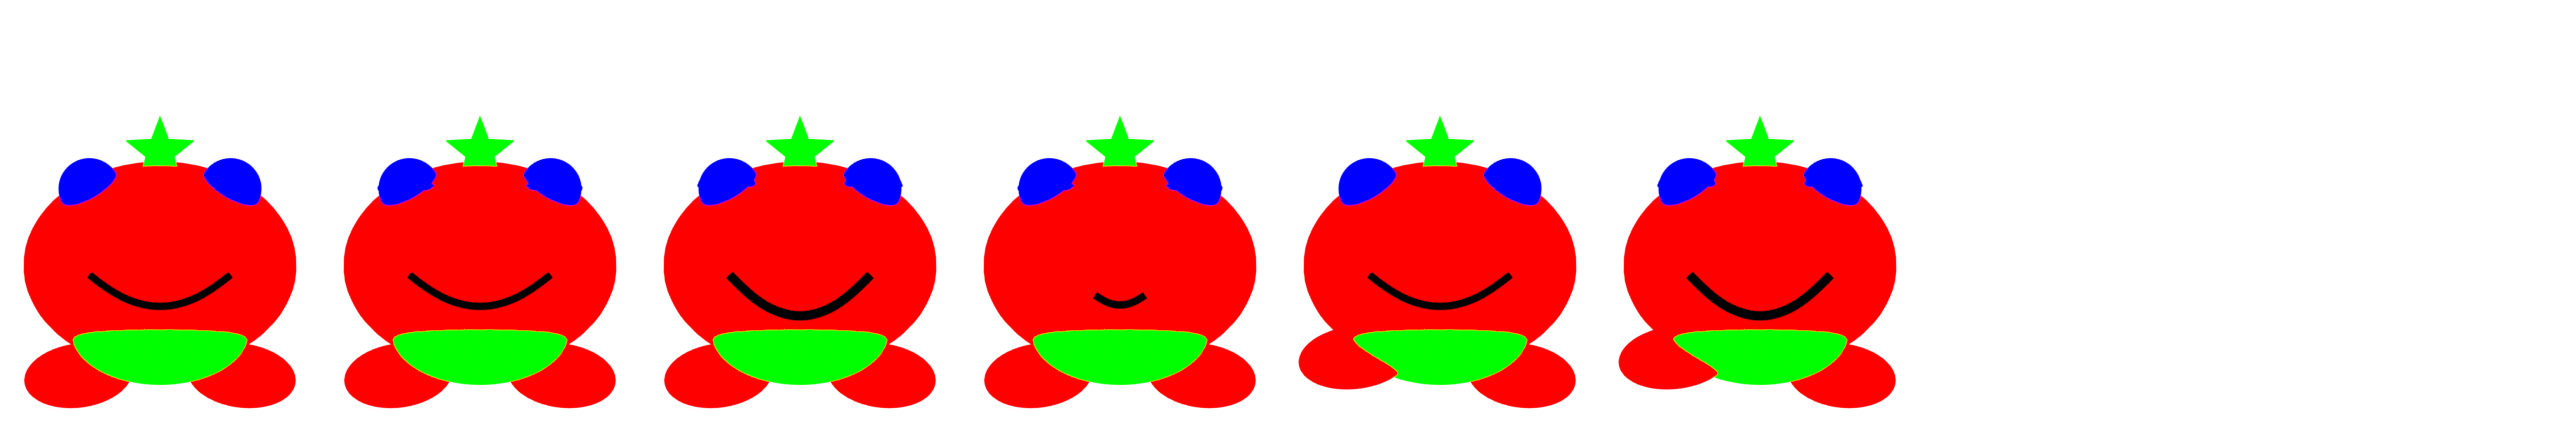
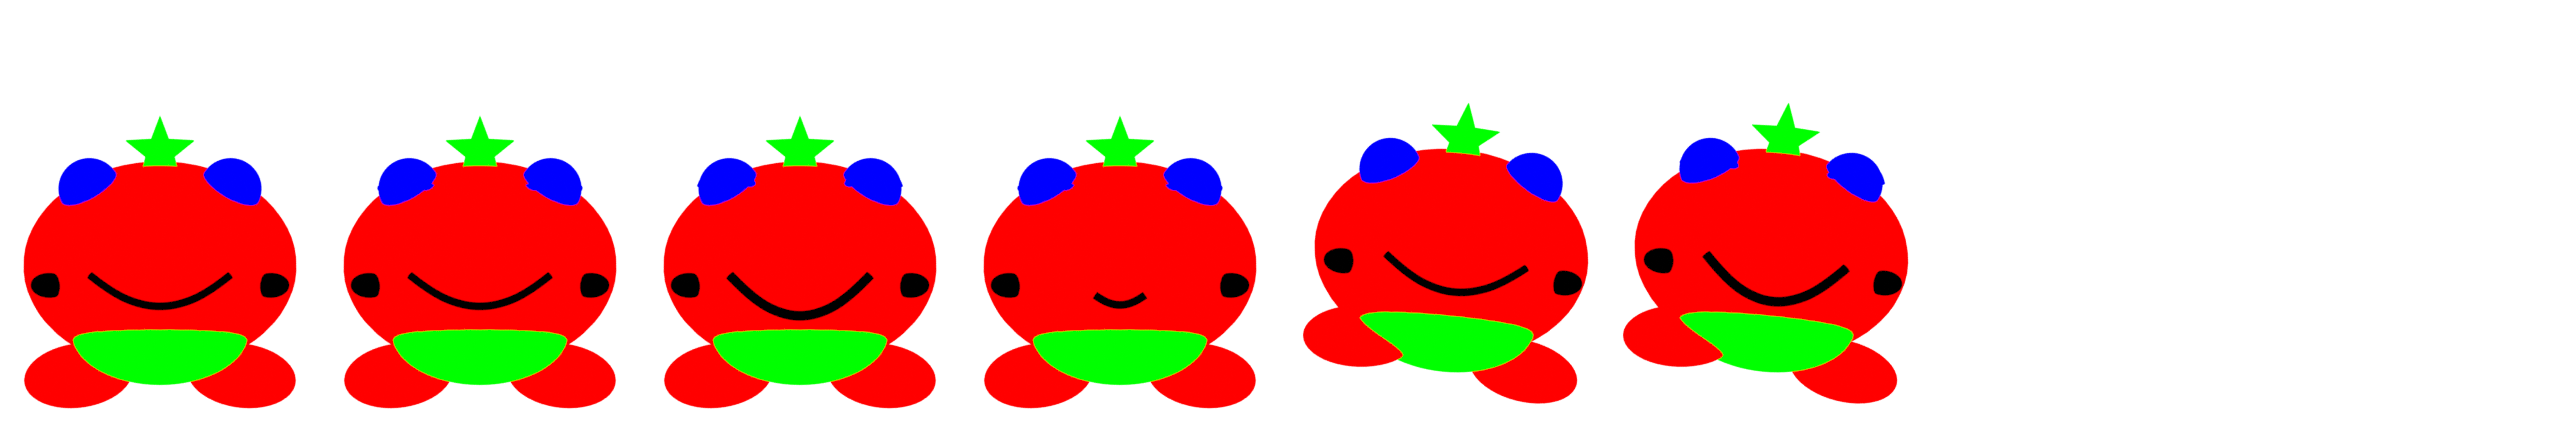
Render Craepets art: Zibbit (64 samples)
Claude-Session: https://claude.ai/code/session_01WzeCJkuLWnKTQ83ve9KbF9

diff --git a/games/craepets/art/manifest.js b/games/craepets/art/manifest.js
@@ -1103,6 +1103,8 @@ window.CPArt = {
   "zibbit": {
    "file": "zibbit.webp",
    "idfile": "zibbit-id.webp",
+   "ref": 0.806,
+   "src": "25350b770f3e",
    "tile": [
     320,
     440
